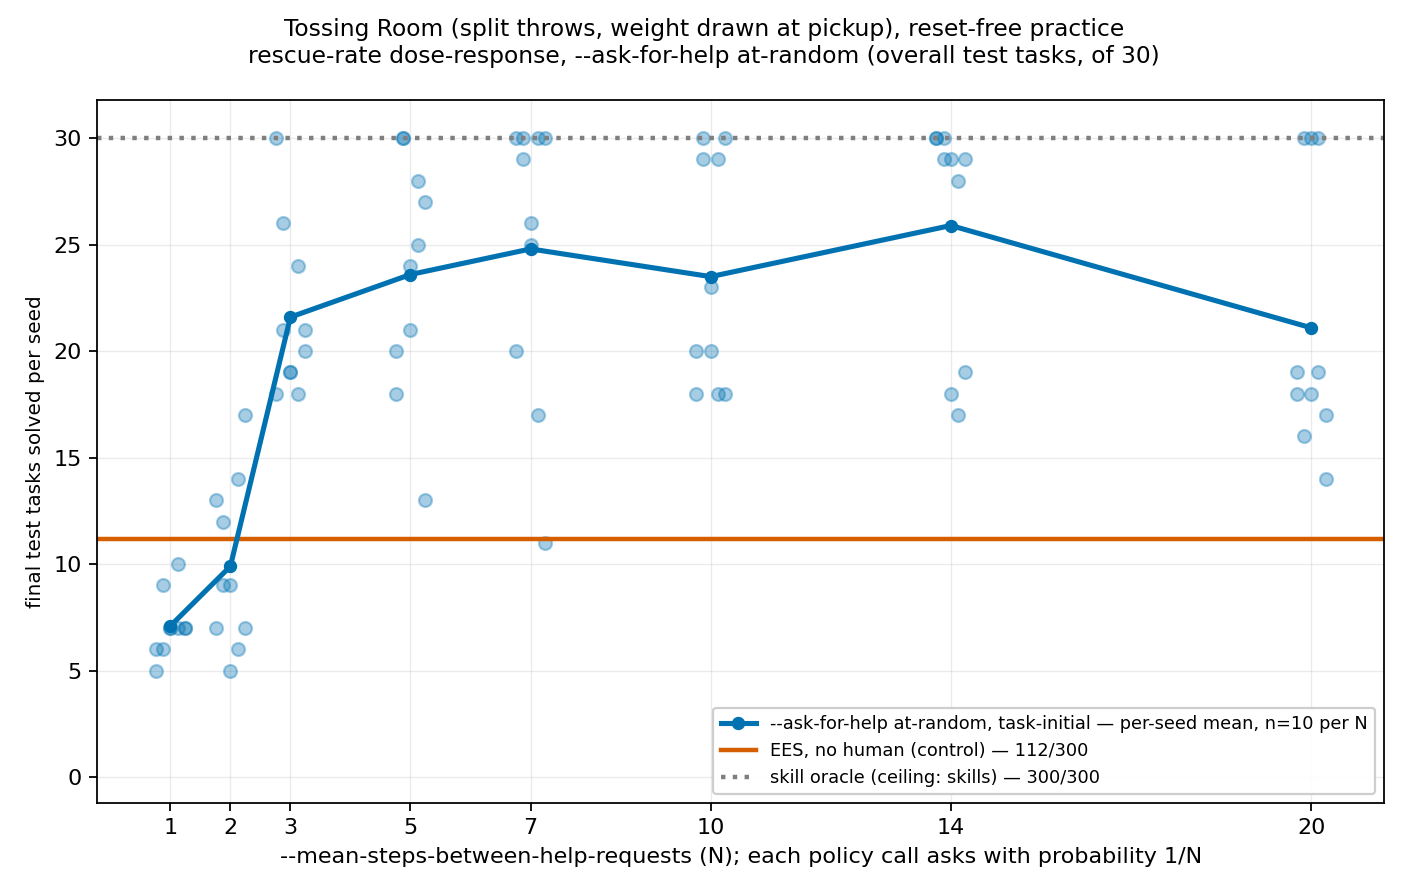
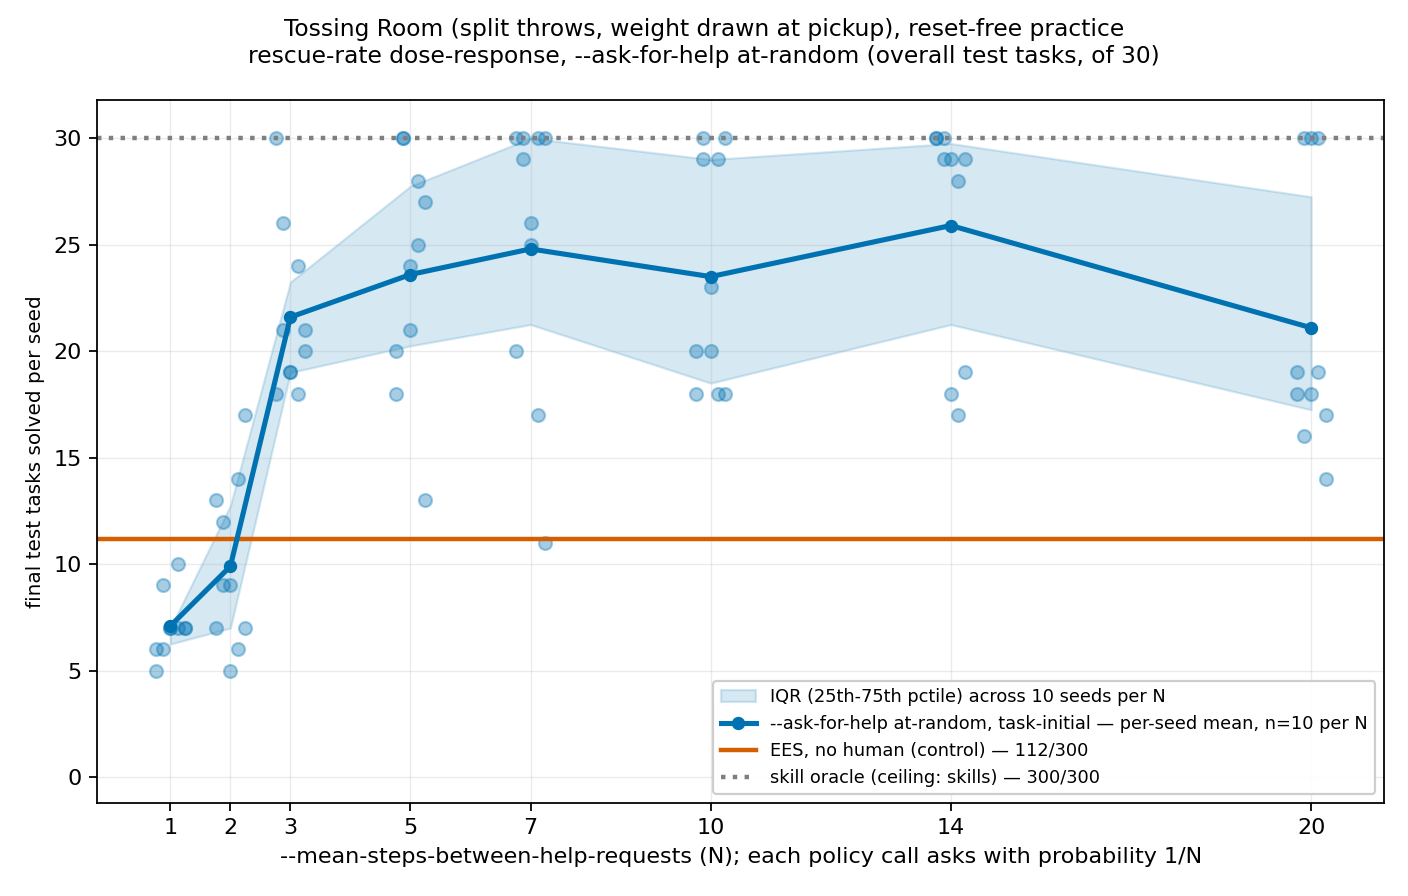
Show the rate sweep's real spread: an IQR band on the dose-response plot, and per-N seed trajectories
The dose-response figure's mean line had no visible spread. Add an IQR (25th-75th
percentile) band per N rather than a symmetric std band, since several N are
genuinely bimodal (clearest at N=14: 7 seeds at 28-30, 3 at 17-19) and a std band
would visually assert a single-peaked distribution the data doesn't have.

The IQR band alone still can't show that clustering, so add a second figure: eight
small multiples, one per N, each with all 10 individual seed trajectories plus the
no-human control's mean curve and the skill-oracle ceiling overlaid. This is what
actually makes the bimodality visible rather than inferred from a summary statistic.

Claude-Session: https://claude.ai/code/session_01YX4kv9fLBKzvmm3w25BvHF

Changed region(s): [[0.125, 0.1562, 0.9375, 0.7188], [0.5, 0.75, 0.8438, 0.8125]]

diff --git a/analysis/practice_makes_perfect/human_ladder_curves.py b/analysis/practice_makes_perfect/human_ladder_curves.py
@@ -94,6 +94,7 @@ simulation or drives a `Method`). Each `--arm` points at the directory holding t
 
 import argparse
 import json
+import statistics
 from collections import Counter
 from pathlib import Path
 
@@ -581,17 +582,30 @@ class HumanLadderCurves:
 
     @staticmethod
     def render_rate_sweep(*, arms: dict, rate_sweep: dict, output: Path, title: str) -> None:
-        """The dose-response figure: final OVERALL score against the rescue-rate knob N.
+        """The dose-response figure: mean + variance of final OVERALL score against the
+        rescue-rate knob N.
 
         Not a training curve -- there is no online-transitions axis here, since each point
         is a wholly separate arm at a different N, not one arm's progress over time. One
         faint dot per seed at each sampled N (jittered so ties stay countable), a bold mean
         line connecting the pooled-per-seed average at each N, and the `no-human` /
         `skill-oracle` levels as reference lines so the sweep reads against the same
-        ceilings the fixed-arm figures use."""
+        ceilings the fixed-arm figures use.
+
+        **The shaded band is the 25th-75th percentile (IQR) across the 10 seeds at each N,
+        not a symmetric +-1 std band.** This data is genuinely bimodal at some N (N=14's
+        final checkpoint splits 7 seeds around 28-30 against 3 around 17-19, not a noisy
+        unimodal spread), and a symmetric std band centred on the mean would visually assert
+        a single-peaked distribution that isn't there, while also having no reason to
+        respect the [0, 30] physical range. The IQR is a plain robust spread statistic that
+        does neither. It does NOT by itself reveal the bimodal clustering -- that needs the
+        individual seed trajectories, which is exactly what `render_rate_sweep_trajectories`
+        draws instead of summarising."""
         fig, ax = plt.subplots(figsize=(8.8, 5.6))
         ns = sorted(rate_sweep)
         means = []
+        q1s = []
+        q3s = []
         for n in ns:
             run = rate_sweep[n]
             finals = HumanLadderCurves.final_per_seed(run=run, family=None)
@@ -605,6 +619,18 @@ class HumanLadderCurves:
                 zorder=2,
             )
             means.append(sum(finals) / len(finals))
+            quartiles = statistics.quantiles(finals, n=4, method="inclusive")
+            q1s.append(quartiles[0])
+            q3s.append(quartiles[2])
+        ax.fill_between(
+            ns,
+            q1s,
+            q3s,
+            color=_RATE_SWEEP_COLOR,
+            alpha=0.16,
+            zorder=1,
+            label="IQR (25th-75th pctile) across 10 seeds per N",
+        )
         ax.plot(
             ns,
             means,
@@ -645,6 +671,121 @@ class HumanLadderCurves:
         print(f"wrote {output}")
         plt.close(fig)
 
+    @staticmethod
+    def render_rate_sweep_trajectories(
+        *, arms: dict, rate_sweep: dict, output: Path, title: str
+    ) -> None:
+        """Eight small multiples, one per N, showing what the IQR band in
+        `render_rate_sweep` cannot: the actual per-seed clustering.
+
+        **This is the honest version of "spread".** A shaded band around a mean asserts a
+        single distribution; a reader cannot tell a wide-but-unimodal N from a genuinely
+        bimodal one by looking at a band alone. Here all ten of that N's individual seed
+        trajectories are drawn (this repo's standard faint/thin per-seed convention), so a
+        split into a high cluster and a low cluster -- which is real at some N -- is
+        directly visible as two groups of lines rather than inferred from a summary
+        statistic.
+
+        Each panel also carries the `no-human` control's own mean training curve (bold,
+        orange, the standing "nothing helps" colour) and the `skill-oracle` ceiling (flat,
+        dotted, grey) for the same reason the merged fixed-arm panels do: the rate-sweep
+        arm's practice is only interpretable next to what zero help and privileged skills
+        achieve on the same axis.
+
+        2 rows, one column per two N values (4 columns at the real 8-point grid), ordered
+        by N (row-major, so the sampled points read left-to-right top-to-bottom in
+        ascending N) -- a single row of 8 was tried first and judged too compressed to show
+        individual seed lines. Column count is derived from how many N points were passed
+        rather than hardcoded to 4, so a smaller sweep (as in this module's own tests)
+        still lays out cleanly instead of leaving `zip`-mismatched axes; any axis beyond
+        the number of N points supplied is hidden rather than left showing empty grid
+        lines with no data on them, which would read as a rendering bug."""
+        ns = sorted(rate_sweep)
+        num_cols = max(1, -(-len(ns) // 2))  # ceil(len(ns) / 2), at least one column
+        fig, axes = plt.subplots(
+            2,
+            num_cols,
+            figsize=(4.6 * num_cols, 8.8),
+            sharex=True,
+            sharey=True,
+            squeeze=False,
+            constrained_layout=True,
+        )
+
+        no_human = arms["no-human"]
+        no_human_xs = HumanLadderCurves.transitions(run=no_human)
+        no_human_pooled = HumanLadderCurves.pooled_curve(run=no_human, family=None)
+        no_human_scale = _NUM_TEST_TASKS / no_human_pooled[-1][1]
+
+        oracle = arms["skill-oracle"]
+        oracle_solved, oracle_total = HumanLadderCurves.pooled_curve(run=oracle, family=None)[-1]
+        oracle_level = oracle_solved * (_NUM_TEST_TASKS / oracle_total)
+
+        axes_flat = list(axes.flat)
+        for ax in axes_flat[len(ns) :]:
+            ax.set_visible(False)
+        for panel_index, (ax, n) in enumerate(zip(axes_flat, ns, strict=False)):
+            run = rate_sweep[n]
+            # Only the very first seed line of the very first panel is labelled -- one
+            # legend entry for "individual seeds", not one per line. Labelling every seed
+            # in just the first panel (a bug caught by inspecting the rendered figure) gave
+            # ten identical "individual seeds, this N" legend rows instead of one.
+            for seed_index, seed in enumerate(sorted(run)):
+                entry = HumanLadderCurves.entry(run=run, seed=seed, family=None)
+                ax.plot(
+                    run[seed]["transitions"],
+                    [s for s, _ in entry],
+                    color=_RATE_SWEEP_COLOR,
+                    alpha=0.55,
+                    linewidth=1.0,
+                    zorder=2,
+                    label=(
+                        "individual seeds, this N" if panel_index == 0 and seed_index == 0 else None
+                    ),
+                )
+            ax.plot(
+                no_human_xs,
+                [solved * no_human_scale for solved, _ in no_human_pooled],
+                color=_COLORS["no-human"],
+                linestyle=_LINESTYLES["no-human"],
+                linewidth=2.0,
+                zorder=4,
+                label=(_LABELS["no-human"] + " (mean)") if panel_index == 0 else None,
+            )
+            ax.axhline(
+                oracle_level,
+                color=_COLORS["skill-oracle"],
+                linestyle=_LINESTYLES["skill-oracle"],
+                linewidth=1.6,
+                zorder=3,
+                label=_LABELS["skill-oracle"] if panel_index == 0 else None,
+            )
+            final_solved, final_total = HumanLadderCurves.pooled_curve(run=run, family=None)[-1]
+            ax.set_title(
+                f"N={n} — {HumanLadderCurves.format_count(solved=final_solved, total=final_total)}",
+                fontsize=10,
+            )
+            ax.set_ylim(-_NUM_TEST_TASKS * 0.04, _NUM_TEST_TASKS * 1.06)
+            ax.grid(alpha=0.2, linewidth=0.5)
+
+        for ax in axes[:, 0]:
+            ax.set_ylabel("test tasks solved per seed", fontsize=9)
+        for ax in axes[-1, :]:
+            ax.set_xlabel("online transitions", fontsize=9)
+
+        # An axes-level legend, not a figure-level one: a figure-level "outside upper
+        # center" legend collided with fig.suptitle regardless of call order (both are
+        # constrained_layout "outside" artists competing for the same top margin). The N=1
+        # panel's curves all stay under y=13 (see check_manipulation: N=1 spends every
+        # policy call on a rescue, so there is barely any practice to plot), which leaves
+        # its own upper-right corner empty and a natural place for the legend to sit
+        # in-panel instead of fighting the title for figure-level space.
+        axes_flat[0].legend(loc="upper right", fontsize=7.5, framealpha=0.95)
+        fig.suptitle(title, fontsize=10.5)
+        fig.savefig(output, dpi=150)
+        print(f"wrote {output}")
+        plt.close(fig)
+
     # ------------------------------------------------------------------ entry point
 
     @staticmethod
@@ -670,9 +811,10 @@ class HumanLadderCurves:
             "--output-dir",
             type=Path,
             required=True,
-            help="Where the four figures are written: overall/TRASH/RECYCLING training "
-            "curves (fixed arms plus all eight rate-sweep points, same panels), plus the "
-            "rate-sweep dose-response figure.",
+            help="Where the five figures are written: overall/TRASH/RECYCLING training "
+            "curves (fixed arms plus all eight rate-sweep points, same panels), the "
+            "rate-sweep dose-response figure (mean + IQR band), and the eight-panel "
+            "per-N seed-trajectory small-multiples figure.",
         )
         args = parser.parse_args()
 
@@ -712,6 +854,16 @@ class HumanLadderCurves:
             title=(
                 f"{domain}\n"
                 f"rescue-rate dose-response, --ask-for-help at-random "
+                f"(overall test tasks, of {_NUM_TEST_TASKS})"
+            ),
+        )
+        HumanLadderCurves.render_rate_sweep_trajectories(
+            arms=arms,
+            rate_sweep=rate_sweep,
+            output=args.output_dir / "human-ladder-rate-sweep-trajectories.png",
+            title=(
+                f"{domain}\n"
+                f"rescue-rate sweep, per-N individual seed trajectories "
                 f"(overall test tasks, of {_NUM_TEST_TASKS})"
             ),
         )

diff --git a/tests/analysis/practice_makes_perfect/test_human_ladder_curves.py b/tests/analysis/practice_makes_perfect/test_human_ladder_curves.py
@@ -290,4 +290,9 @@ def test_render_family_and_rate_sweep_write_files(*, tmp_path: Path) -> None:
         arms=arms, rate_sweep=rate_sweep, output=rate_output, title="test"
     )
     assert rate_output.exists()
+    trajectories_output = output_dir / "human-ladder-rate-sweep-trajectories.png"
+    HumanLadderCurves.render_rate_sweep_trajectories(
+        arms=arms, rate_sweep=rate_sweep, output=trajectories_output, title="test"
+    )
+    assert trajectories_output.exists()
     plt.close("all")

diff --git a/docs/experiment-logs/2026-08-10-human-ladder-rate-sweep.md b/docs/experiment-logs/2026-08-10-human-ladder-rate-sweep.md
@@ -72,6 +72,15 @@ line weight/alpha, or a grid split were all offered as options); keep the dose-r
 figure too, since training curves and the end-state summary answer different questions and
 neither replaces the other.
 
+**Second follow-up guidance**: the dose-response figure needed its spread shown, not just a
+bare mean line — a shaded band (std or IQR, reader's call) across the 10 seeds per N. Given
+this data is known to be genuinely bimodal at some N (not just noisy-unimodal), a plain
+symmetric band risked implying a single-peaked distribution that isn't there; plot 1 didn't
+need to fully resolve that, since a second figure — one small multiple per N, all 10 seed
+trajectories plus the `no-human` mean curve and `skill-oracle` reference line overlaid — was
+asked for specifically to show the real clustering directly rather than have a reader infer
+it from a summary statistic. Both figures are additive to what was already in the PR.
+
 ## Methods
 
 Four components, driven by `scripts/run_sweep.py` (one invocation per component; the N axis
@@ -152,7 +161,13 @@ never practises — one evaluation, at 0 online transitions).
 
 ### The rate sweep: non-monotonic, and the low end is the headline
 
-![final OVERALL solved vs N, per-seed spread, reference lines for no-human and skill-oracle](2026-08-10-human-ladder-rate-sweep.png)
+![final OVERALL solved vs N, per-seed mean with an IQR band, reference lines for no-human and skill-oracle](2026-08-10-human-ladder-rate-sweep.png)
+
+The shaded band is the 25th-75th percentile (IQR) across the 10 seeds at each N, not a
+symmetric +-1 std band — this data is genuinely bimodal at several N (next section), and a
+std band centred on the mean would visually assert a single-peaked distribution that isn't
+there, while also having no reason to respect the [0, 30] physical range an IQR naturally
+does.
 
 | N | interventions (pooled) | interventions (per-seed) | OVERALL | gap vs no-human | better/worse/tied | p | MDE | extra solves/rescue |
 | --- | --- | --- | --- | --- | --- | --- | --- | --- |
@@ -182,6 +197,33 @@ peaks at N=14 (259/300, the best point in the sweep, p=0.00195), then falls at N
 The dip at N=10 sits within the noise both neighbors show (per-seed range 18-30, same as
 N=3 and N=14) — nothing in this sweep supports treating it as a real local minimum rather
 than seed variance at n=10.
+
+### Several N are genuinely bimodal, not noisy-unimodal — the IQR band alone can't show this
+
+![per-N individual seed trajectories, no-human control mean and skill-oracle ceiling overlaid on each panel](2026-08-10-human-ladder-rate-sweep-trajectories.png)
+
+Sorted final-checkpoint scores make the split explicit at three N:
+
+| N | sorted final OVERALL (of 30), 10 seeds |
+| --- | --- |
+| 10 | 18, 18, 18, 20, 20, 23, 29, 29, 30, 30 |
+| 14 | 17, 18, 19, 28, 29, 29, 29, 30, 30, 30 |
+| 20 | 14, 16, 17, 18, 18, 19, 19, 30, 30, 30 |
+
+**N=14 is the clearest case: 7 seeds land at 28-30 and 3 land at 17-19, with a real 9-point
+gap between the clusters and nothing in between.** That is not what a wide-but-unimodal
+distribution looks like, and it is exactly what the IQR band above cannot distinguish from
+one — N=14's actual band (Q1=21.25, Q3=29.75) sits almost entirely inside the high cluster
+and is silent on whether the three low seeds are a separate group or just its lower tail.
+Reading the band alone would suggest a single spread-out distribution; the individual
+trajectories show two distinct ones. The eight
+per-N panels answer that directly: each of the ten seed lines is drawn individually, so the
+28-30 cluster and the 17-19 cluster at N=14 are two visibly separate bundles of lines, not
+an inference from a summary statistic. N=10 and N=20 show the same two-cluster shape, less
+starkly separated. This is consistent with, though not proof of, an underlying discrete
+"the rescue schedule did or didn't line up with the ledge" mechanism rather than continuous
+per-seed variation in how well the policy learns — that mechanism is not established by
+this sweep and would need its own follow-up.
 
 **Cost-effectiveness rises monotonically with N even where absolute score does not.** Extra
 solves per rescue goes from negative at N=1-2 to 0.143 at N=14 and N=20 — the same ratio at
